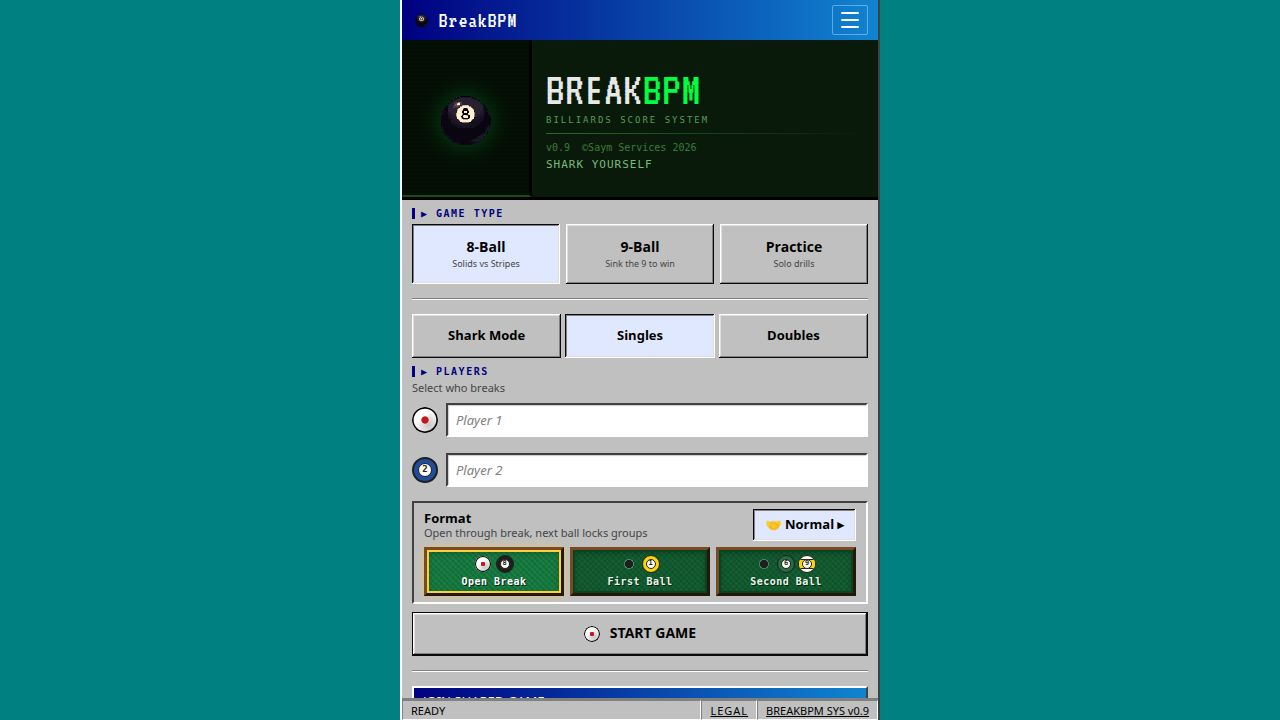
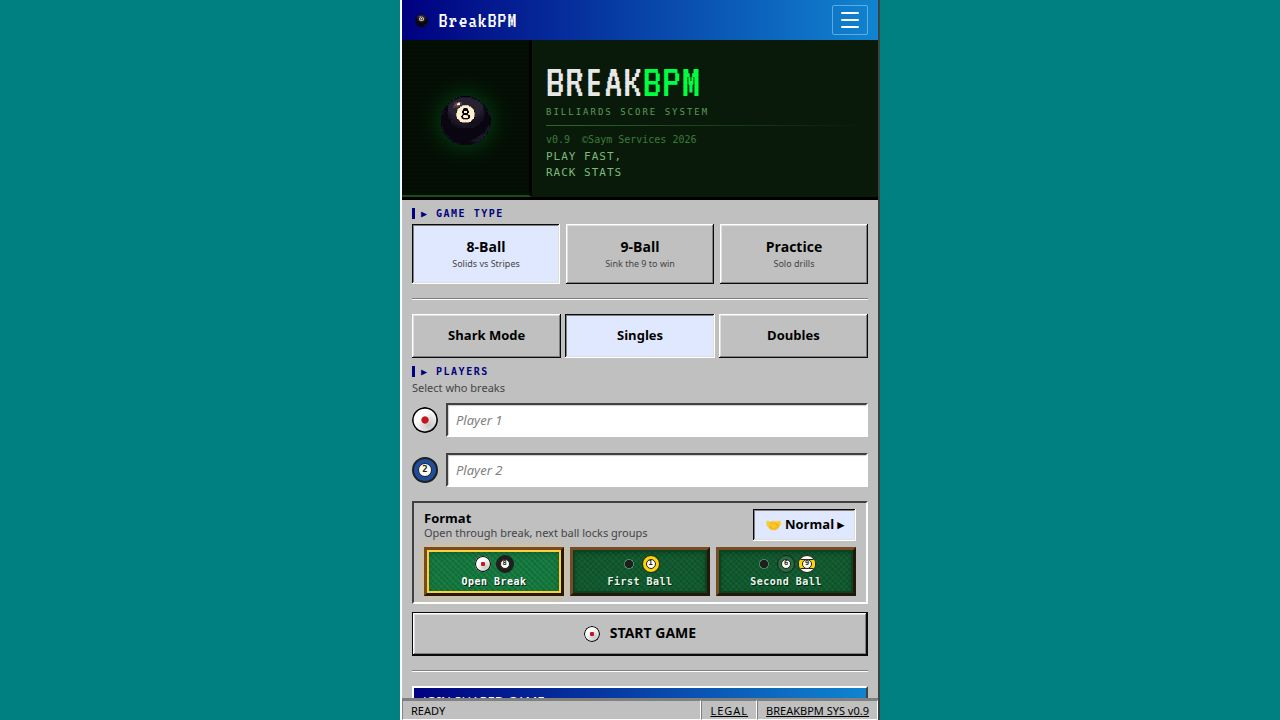
Restored to '95d7a930557dea27b4871cd93007e8f79af3d9c1'
Replit-Restored-To: 95d7a930557dea27b4871cd93007e8f79af3d9c1

Changed region(s): [[0.4062, 0.0917, 0.5625, 0.2444]]

diff --git a/artifacts/breakbpm/src/index.css b/artifacts/breakbpm/src/index.css
@@ -984,63 +984,16 @@ html, #root {
 /* ── BPM / Timer displays ── */
 .digit-display {
   font-family: 'VT323', 'Courier New', monospace;
-  background: #030803;
+  background: #000;
   border: 2px solid;
   border-color: var(--dshadow) var(--highlight) var(--highlight) var(--dshadow);
   text-align: center;
   letter-spacing: 2px;
   line-height: 1;
   padding: 4px 8px;
-  position: relative;
-  overflow: hidden;
-  box-shadow: inset 0 2px 12px rgba(0,0,0,0.9);
-  /* Per-display colour token — override inline to recolour ghost + glow. */
-  --digit-color: var(--green);
 }
 
-/* Dim "ghost" inactive-segment layer — mimics an unlit 7-segment LCD. Set
-   data-ghost on the element to control which ghost characters appear. */
-.digit-display::before {
-  content: attr(data-ghost);
-  position: absolute;
-  inset: 0;
-  font-family: 'VT323', 'Courier New', monospace;
-  font-size: 40px;
-  letter-spacing: 2px;
-  line-height: 1;
-  padding: 4px 8px;
-  text-align: center;
-  pointer-events: none;
-  color: var(--digit-color);
-  opacity: 0.10;
-  z-index: 0;
-}
-
-/* CRT/LCD scanline overlay */
-.digit-display::after {
-  content: '';
-  position: absolute;
-  inset: 0;
-  background: repeating-linear-gradient(
-    0deg,
-    transparent 0px,
-    transparent 2px,
-    rgba(0,0,0,0.12) 2px,
-    rgba(0,0,0,0.12) 4px
-  );
-  pointer-events: none;
-  z-index: 2;
-}
-
-.digit-bpm {
-  font-size: 40px;
-  color: var(--digit-color);
-  position: relative;
-  z-index: 1;
-  text-shadow:
-    0 0 5px var(--digit-color),
-    0 0 12px var(--digit-color);
-}
+.digit-bpm { font-size: 40px; color: var(--green); }
 .digit-timer { font-size: 30px; color: var(--amber); }
 .digit-label { font-size: 9px; color: #555; text-align: center; letter-spacing: 1px; margin-top: 1px; font-family: monospace; }
 

diff --git a/artifacts/breakbpm/src/components/StatsScreen.tsx b/artifacts/breakbpm/src/components/StatsScreen.tsx
@@ -485,16 +485,16 @@ export default function StatsScreen({ onBack, onAbout, onAccount, onFindPlayers,
                   <div className="panel-body" style={{ display: "flex", flexDirection: "column", gap: 10 }}>
                     <div style={{ display: "flex", gap: 8 }}>
                       <div style={{ flex: 1 }}>
-                        <div className="digit-display" data-ghost="88.8">
-                          <div className="digit-bpm">{stats.avgBpm == null ? "--.-" : stats.avgBpm.toFixed(1)}</div>
+                        <div className="digit-display">
+                          <div className="digit-bpm">{stats.avgBpm == null ? "--" : stats.avgBpm.toFixed(1)}</div>
                         </div>
                         <div className="digit-label">AVG BPM</div>
                       </div>
                       {isAuthenticated && (
                         <div style={{ flex: 1 }}>
-                          <div className="digit-display" data-ghost="88.8" style={{ '--digit-color': 'var(--amber)' } as React.CSSProperties}>
-                            <div className="digit-bpm">
-                              {stats.bestBpm == null ? "--.-" : stats.bestBpm.toFixed(1)}
+                          <div className="digit-display">
+                            <div className="digit-bpm" style={{ color: "var(--amber)" }}>
+                              {stats.bestBpm == null ? "--" : stats.bestBpm.toFixed(1)}
                             </div>
                           </div>
                           <div className="digit-label">BEST BPM</div>